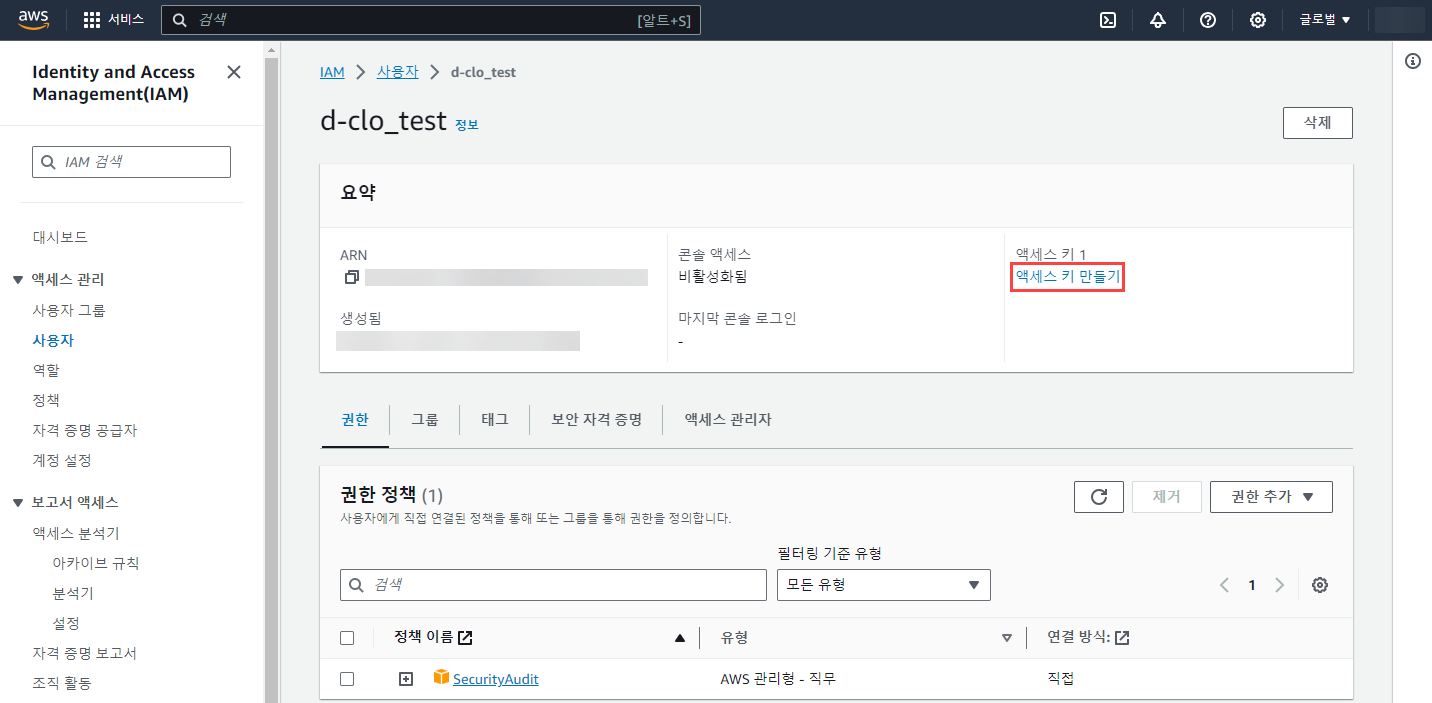
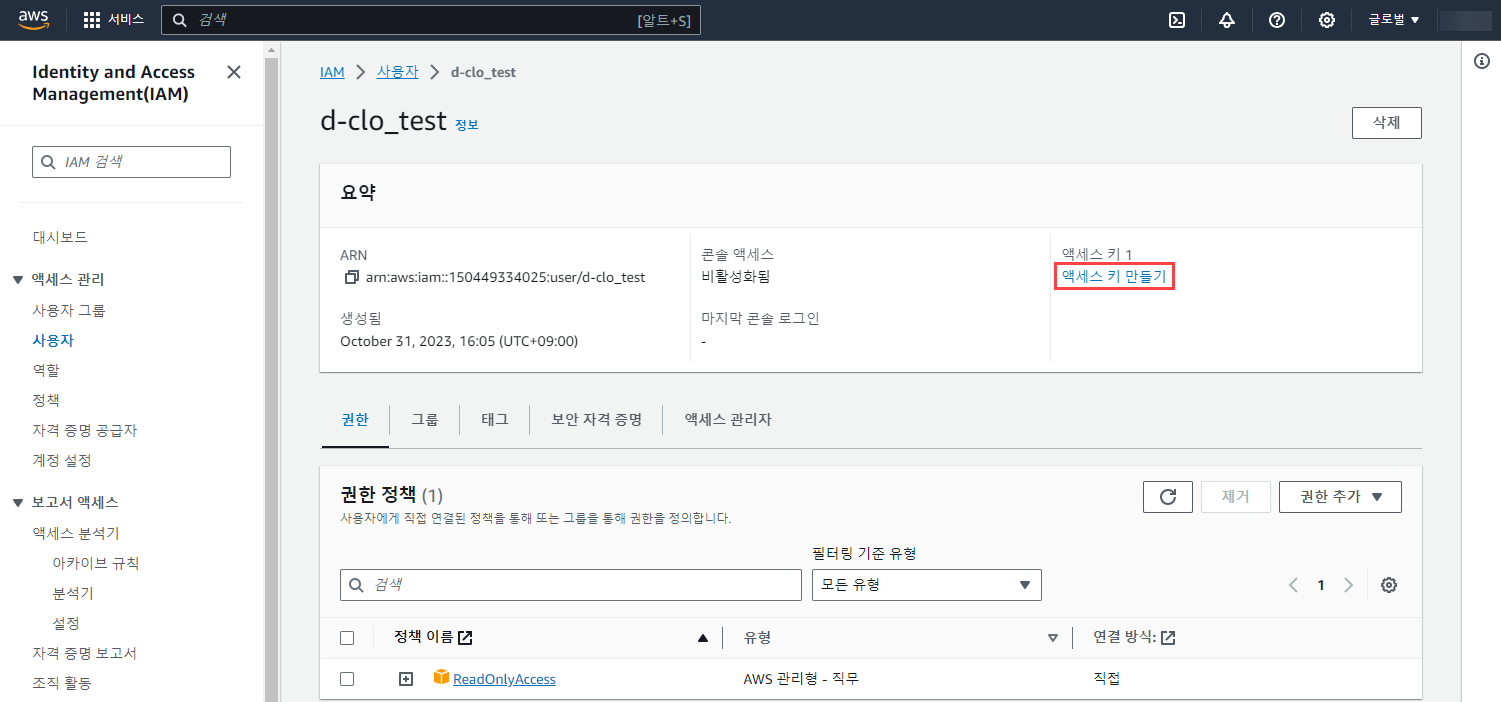
hn-all-c

diff --git a/docs/docs/FAQ/aws_access_key.md b/docs/docs/FAQ/aws_access_key.md
@@ -34,7 +34,7 @@ parent: 자주하는 질문(FAQ)
 aws에 접속하여 IAM 서비스로 이동합니다. <br />
 왼쪽 메뉴에서 사용자를 선택하고 오른쪽 상단에 사용자 생성 버튼을 클릭합니다. <br />
 사용자 이름 입력란에 관리하기 편한 임의의 사용자 이름을 입력하고 다음 버튼을 클릭합니다. <br /> 
-권한 옵션에서 ‘직접 정책 연결’을 선택하고 권한 정책에서 ‘SecurityAudit’ 정책을 선택한 후 다음 버튼을 클릭합니다. <br />
+권한 옵션에서 ‘직접 정책 연결’을 선택하고 권한 정책에서 ‘ReadOnlyAccess’ 정책을 선택한 후 다음 버튼을 클릭합니다. <br />
 사용자 생성 버튼을 클릭하여 사용자 생성을 완료합니다. <br />
 생성된 사용자 이름을 선택한 후 ‘액세스 키 만들기’를 클릭합니다. <br />
 ‘Command Line Interface(CLI)’를 선택하고 아래 확인 체크 박스를 선택한 후 다음 버튼을 클릭합니다. <br />
@@ -97,7 +97,7 @@ aws에 접속하여 IAM 서비스로 이동합니다. <br />
 왼쪽 메뉴에서 역할을 선택하고 오른쪽 상단에 역할 만들기 버튼을 클릭합니다. <br />
 신뢰할 수 있는 엔터티 유형에서 “AWS 계정”을 선택한 뒤, 하단에 “다른 AWS 계정”을 선택합니다. <br />
 선택하면서 활성화 된 텍스트 박스에 D-CLO 계정 ID “176166756190“를 입력하고 다음 버튼을 클릭합니다. <br />
-권한추가 단계에서 “SecurityAudit”을 선택하고 다음 버튼을 클릭합니다. <br />
+권한추가 단계에서 ‘ReadOnlyAccess’ 을 선택하고 다음 버튼을 클릭합니다. <br />
 이름 지정, 검토 및 생성 단계에서 역할의 이름을 입력합니다. <br />
 이후 전 단계에서 입력했던 D-CLO계정 ID가 정확하게 입력이 되었는지, Action 부분에 “sts:AssumeRole”가 정확하게 입력 되어있는지 확인 후 역할 생성 버튼을 클릭합니다. <br />
 역할이 생성된 것을 확인한 뒤, 생성한 역할을 클릭하여 ARN 정보를 확인합니다. <br />

diff --git a/docs/docs/support/inquiry.md b/docs/docs/support/inquiry.md
@@ -7,8 +7,6 @@ parent: 고객 지원
 
 # 대표 전화
 
-<div class="code-example" markdown="1">
-
 | T | 070-5055-5564  |
 | Fax   | 02-6455-1987  |
 | E-mail | dclo@linarena.com   |

diff --git a/docs/docs/support/company.md b/docs/docs/support/company.md
@@ -6,7 +6,6 @@ parent: 고객 지원
 ---
 
 # 린아레나
-<div class="code-example" markdown="1">
 
 | T | 070-5055-5564  |
 | Fax   | 02-6455-1987  |
